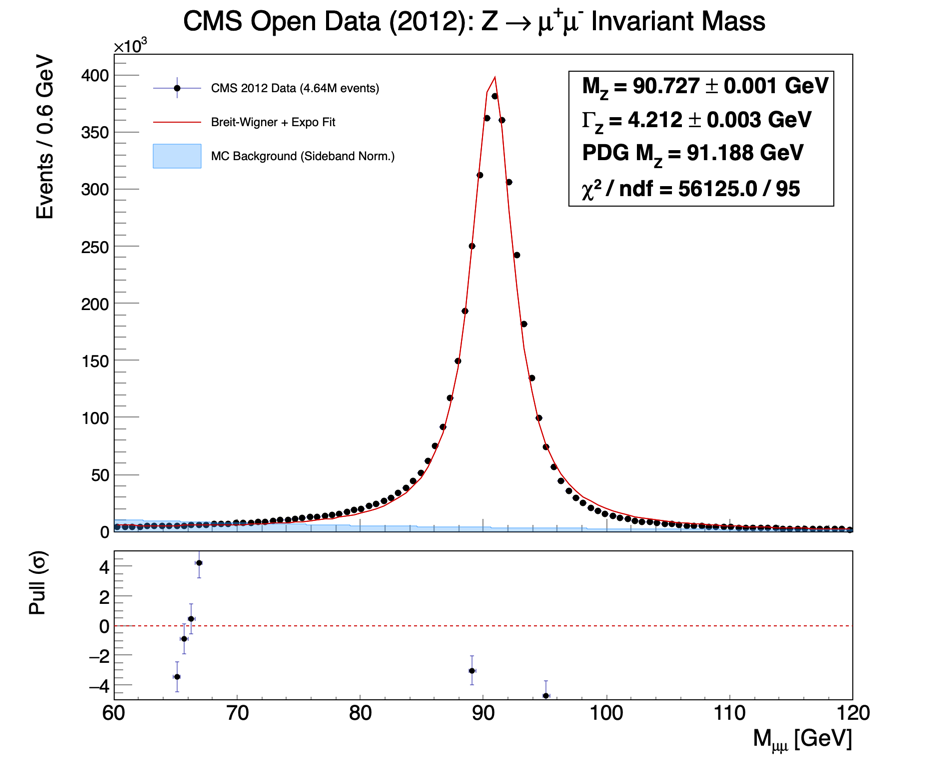
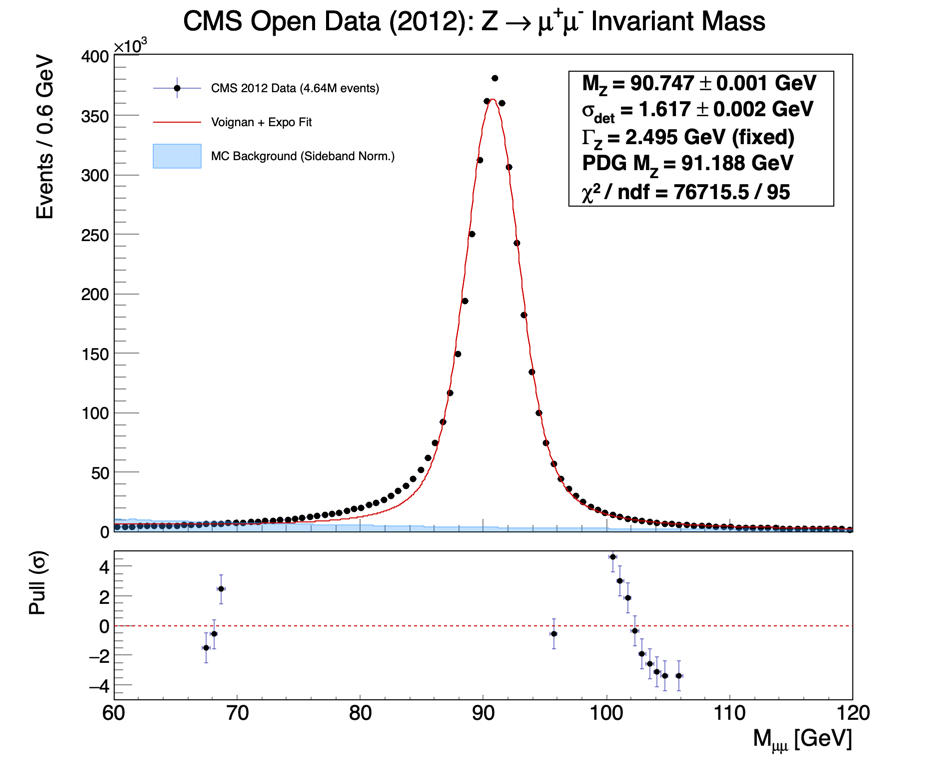
I tried Voignan + Expo Fit model.

diff --git a/cern-dimuon-analysis/src/fit_analysis.py b/cern-dimuon-analysis/src/fit_analysis.py
@@ -16,32 +16,33 @@ def run_z_boson_fit():
 
     total_fit = None
 
-    total_fit = ROOT.TF1("total_fit", "breitwigner(0) + expo(3)", 60.0, 120.0)
+    #Breit Wigner
+    #total_fit = ROOT.TF1("total_fit", "breitwigner(0) + expo(3)", 60.0, 120.0)
 
-    # Set physically motivated initial parameter guesses so Minuit2 converges cleanly
-    # [BW_Norm, Z_Mass (~91.2 GeV), Z_Width (~2.5-3.5 GeV), Bkg_Const, Bkg_Slope]
-    total_fit.SetParameters(1.5e6, 91.19, 3.5, 8.5, -0.02)
-    total_fit.SetParLimits(1, 88.0, 94.0)
-    total_fit.SetParLimits(2, 1.0, 10.0)
+    total_fit = ROOT.TF1("total_fit", "[0]*TMath::Voigt(x-[1],[2],[3]) + expo(4)", 60.0, 120.0)
+    total_fit.SetNpx(1000)
 
-    total_fit.SetParameters(1.5e6, 91.19, 3.5, 8.5, -0.02)
+    total_fit.SetParameters(2.6e6, 91.19, 1.5, 2.4952, 11.7, -0.06)
     total_fit.SetParLimits(1, 88.0, 94.0)
-    total_fit.SetParLimits(2, 1.0, 10.0)
+    total_fit.SetParLimits(2, 0.3, 5.0)
+
+    # Z width is fixed to the PDG value, the fit measures mass and detector resolution
+    total_fit.FixParameter(3, 2.4952)
 
     # Perform the fit over [60, 120] GeV ("R": use TF1 range, "S": return full fit result)
     fit_result = h_data.Fit(total_fit, "RS")
 
-    # Extract fitted physics parameters and goodness-of-fit metrics
+    # Extract fitted physics parameters and goodness of fit metrics
     z_mass = total_fit.GetParameter(1)
     z_mass_err = total_fit.GetParError(1)
-    z_width = total_fit.GetParameter(2)
-    z_width_err = total_fit.GetParError(2)
+    sigma = total_fit.GetParameter(2)
+    sigma_err = total_fit.GetParError(2)
     chi2 = total_fit.GetChisquare()
     ndf = total_fit.GetNDF()
 
     print("\n" + "=" * 50)
     print(f"Fitted Z Mass  : {z_mass:.4f} +/- {z_mass_err:.4f} GeV (PDG: 91.1876 GeV)")
-    print(f"Fitted Z Width : {z_width:.4f} +/- {z_width_err:.4f} GeV")
+    print(f"Resolution (σ) : {sigma:.4f} +/- {sigma_err:.4f} GeV")
     print(f"Chi2 / ndf     : {chi2:.2f} / {ndf} = {chi2 / ndf:.2f}")
     print("=" * 50 + "\n")
 
@@ -93,7 +94,8 @@ def run_z_boson_fit():
     legend.SetBorderSize(0)
     legend.SetFillStyle(0)
     legend.AddEntry(h_data, "CMS 2012 Data (4.64M events)", "lep")
-    legend.AddEntry(total_fit, "Breit-Wigner + Expo Fit", "l")
+    #legend.AddEntry(total_fit, "Breit-Wigner + Expo Fit", "l")
+    legend.AddEntry(total_fit, "Voignan + Expo Fit", "l")
     legend.AddEntry(h_mc_bkg, "MC Background (Sideband Norm.)", "f")
     legend.Draw()
 
@@ -103,7 +105,8 @@ def run_z_boson_fit():
     info_box.SetFillColor(ROOT.kWhite)
     info_box.SetTextAlign(12)
     info_box.AddText(f"M_{{Z}} = {z_mass:.3f} #pm {z_mass_err:.3f} GeV")
-    info_box.AddText(f"#Gamma_{{Z}} = {z_width:.3f} #pm {z_width_err:.3f} GeV")
+    info_box.AddText(f"#sigma_{{det}} = {sigma:.3f} #pm {sigma_err:.3f} GeV")
+    info_box.AddText("#Gamma_{Z} = 2.495 GeV (fixed)")
     info_box.AddText("PDG M_{Z} = 91.188 GeV")
     info_box.AddText(f"#chi^{{2}} / ndf = {chi2:.1f} / {ndf}")
     info_box.Draw()
